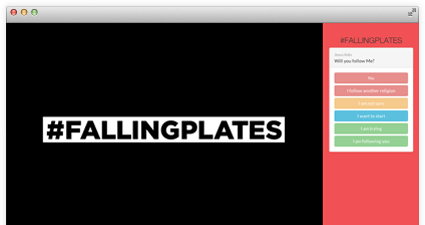
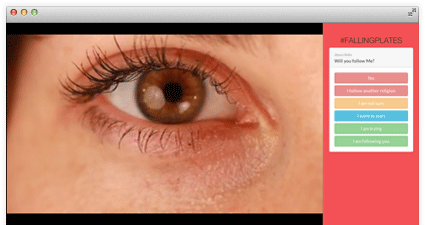
cosmetic changes

diff --git a/app/assets/javascripts/frontend/tour.js b/app/assets/javascripts/frontend/tour.js
@@ -3,7 +3,6 @@ var tour = new function() {
 
   self.facebook_user_id;
   window.fbAsyncInit = function() {
-    $('.name_box, .facebook').hide();
     // init the FB JS SDK
     FB.init({
       appId      : '245335962168737', // App ID from the App Dashboard
@@ -89,14 +88,18 @@ var tour = new function() {
   }
 
   self.init = function() {
-    self.bt = new Tour();
+    $('.name_box, .facebook').hide();
+
+    self.bt = new Tour({
+      template: "<div class='popover tour'><div class='arrow'></div><h3 class='popover-title'></h3><div class='popover-content'></div><nav class='popover-navigation'><button class='btn btn-default btn-sm' data-role='prev'>« Prev</button><button class='btn btn-primary btn-sm pull-right' data-role='next'>Next »</button></nav></div>",
+    });
 
     self.bt.addSteps([
       {
         orphan: true,
         backdrop: true,
         title: "Welcome to the Godchat Tour",
-        content: "<p class='lead'>So you're keen to check out Godchat? Well this tour is a great place to start.</p><p>Behind me there is a video playing called <a href='http://www.fallingplates.com'>#FallingPlates</a>. This can be anything, your articles, videos, websites etc.</p><div class='alert alert-info text-center'>We'll start by pausing the video</div>",
+        content: "<p class='lead'>So you're here to find out about Godchat? This is the place to start.</p><p>Behind me there is a video playing called <a href='http://www.fallingplates.com'>#FallingPlates</a>. This can be swapped for anything: articles, videos, websites etc.</p><div class='alert alert-info text-center'>We'll start by pausing the video</div>",
         onNext: function(bt) {
           tour.player.pauseVideo();
         },
@@ -110,7 +113,7 @@ var tour = new function() {
         element: "#willyoufollow",
         title: "Chat Priming",
         container: "#chat",
-        content: "<p class='lead'>We can encourage visitors to interact with content.</p><p>Here is a example of a simple question that you can ask your visitors to engage them with your content.</p><div class='alert alert-info text-center'>Go on, click <strong>I want to start</strong></div>",
+        content: "<p class='lead'>We can encourage visitors to interact with content.</p><p>Here is an example of a simple question that you can ask your visitors to engage them with your content.</p><div class='alert alert-info text-center'>Go on, click <strong>I want to start</strong></div>",
         next: -1
       },
       {
@@ -118,10 +121,9 @@ var tour = new function() {
         element: "#myfriends",
         title: "Invite a Friend",
         container: "#chat",
-        content: "<p class='lead'>Isn't everything's more fun with friends?</p><p>Finding Christ is no exception to that rule. <span class='facebook'>If you're visitors are signed into Facebook, we can make use of that connection.</span></p><div class='alert alert-info text-center'>Click an answer</div>",
-        onShow: function(bt) {
-
-        }
+        content: "<p class='lead'>Isn't everything more fun with friends?</p><p>Finding Christ is no exception to that rule. <span class='facebook'>If your visitors are signed into Facebook, we can make use of that connection.</span></p><div class='alert alert-info text-center'>Click an answer</div>",
+        next: -1,
+        prev: 1
       },
       {
         placement: "bottom",
@@ -140,8 +142,8 @@ var tour = new function() {
         container: "#chat",
         content: "<p class='lead'>After a friend, a Godchat Operator is the next best option.</p><p>Godchat will go off and find a someone who is keen to connect and negotiate a connection between your visitors and available operators.<p>",
         onShow: function(bt) {
-          if ( $('#player').prop('src') != 'http://www.everystudent.com/features/gettingconnected.html')
-            $('#player').prop('src', 'http://www.everystudent.com/features/gettingconnected.html');
+          if ( $('#player').prop('src') != 'http://www.startingwithgod.com/')
+            $('#player').prop('src', 'http://www.startingwithgod.com/');
         }
       }
     ]);

diff --git a/app/assets/stylesheets/frontend/application.css.sass b/app/assets/stylesheets/frontend/application.css.sass
@@ -12,6 +12,10 @@
 @import lib/features
 
 body
+  #footer
+    .info
+      border-bottom: 1px solid #444
+      padding-bottom: 20px
   .navbar-inverse .navbar-nav > .active > a
     background-color: transparent
     &:hover
@@ -52,6 +56,8 @@ body
   &.site
     background: #252528 image-url('debut_dark.png') repeat
     padding-top: 80px
+    .index-heading
+      padding-top: 40px
     .bg-white
       background-color: white
     .btn-cyan
